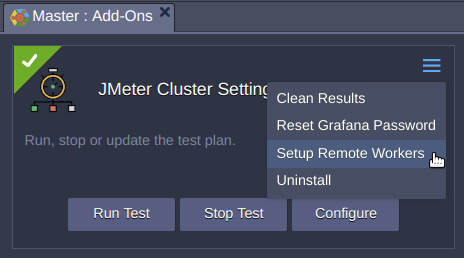
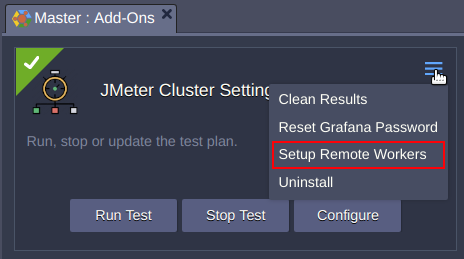
Repo updated

diff --git a/README.md b/README.md
@@ -52,6 +52,21 @@ Also WordPress testing requires to create users that will simulate your web site
 Log in via [SSH](https://docs.jelastic.com/ssh-access/) to your WordPress environment and run the script in command line from the WordPress installation directory.
 User generation takes time, thus wait till the generation process is completed.
 
+## Remote Workers Setup
+
+In order to increase cluster capacity the remote workers can be added to the cluster. This is implemented through creating remote JMeter dashboards at [Jelastic hosting platforms](https://docs.jelastic.com/jelastic-hoster-info/). 
+
+![remote-worker-setup](images/remote-worker-setup-full.png)
+
+Fill in the list of workers with hosting platform's URL and [access token](https://docs.jelastic.com/personal-access-tokens/).
+
+![remote-worker-list](images/remote-worker-list.png)
+
+Alternatively you may manage remote workers with CLI: **jmenv-manager**
+
+![remote-worker-cli](images/remote-worker-cli.png)
+
+
 ## Web Site Testing
 
 To begin the test, open *JMeter Cluster* **Add-Ons** at **Master** node and press **Run Test**.
@@ -60,6 +75,8 @@ To begin the test, open *JMeter Cluster* **Add-Ons** at **Master** node and pres
 
  Then popup window appears with an URL the test results can be reached.
  
+ ![run-test](images/result-url.png)
+  
  ![run-test](images/jmeter-results.png)
  
 You may go to [GRAFANA](https://grafana.com/) to monitor results in real-time or wait untill test will be comleted and observe the results summarized by JMeter clicking on the **RESULTS DIR** button.
